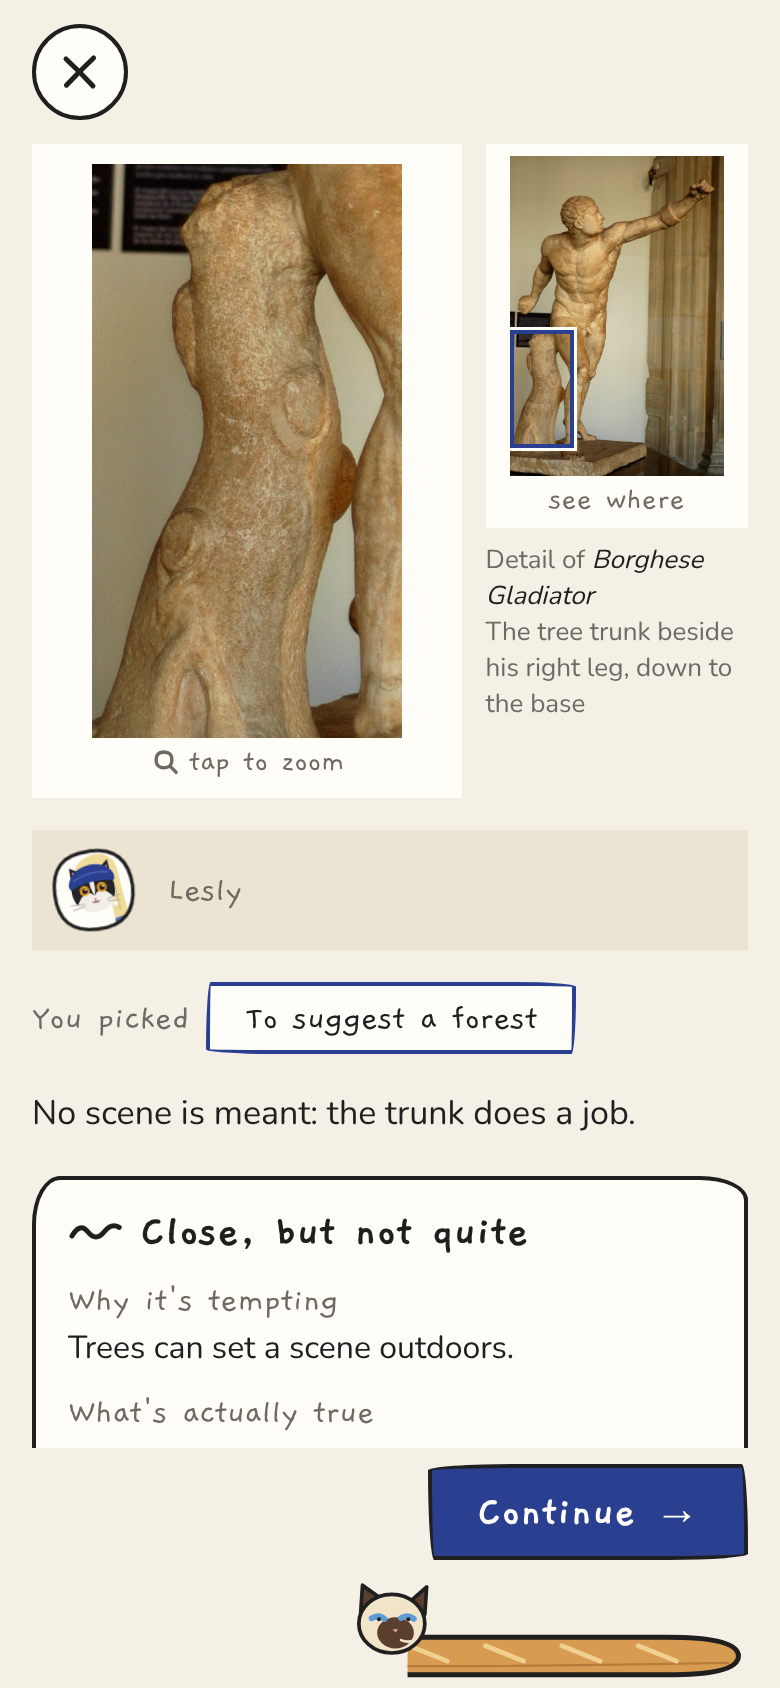
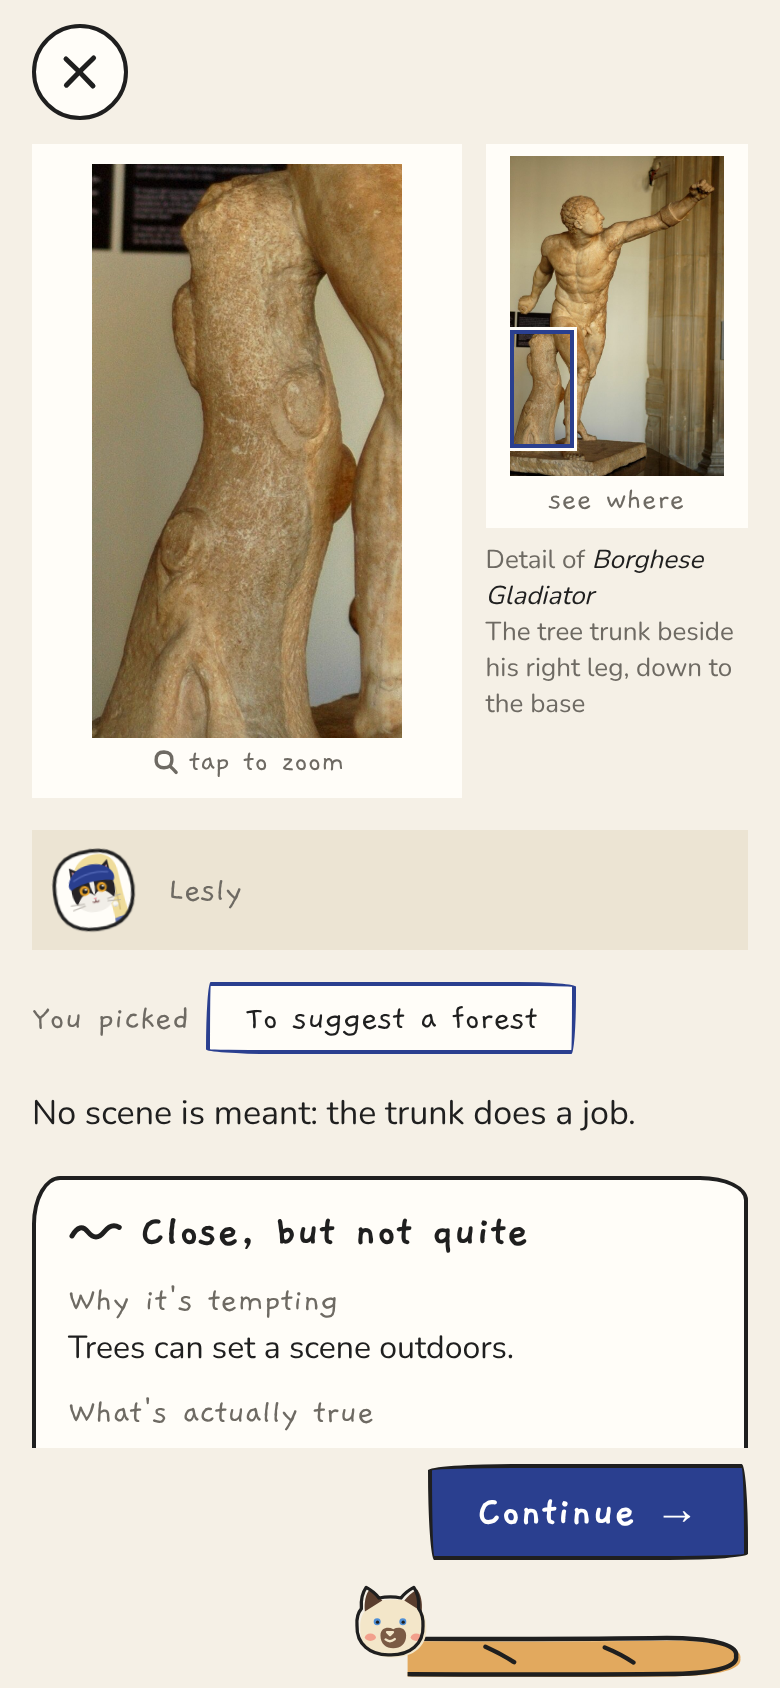
Redraw TT, Lulu and the baguette in a loose hand-drawn doodle style
Wobbly single-weight ink with round caps typed into the paths, chubby
big-head shapes, dot eyes and blush, flat crayon fills offset from the line.
PRODUCT.md notes the style. Screenshots refreshed.

Claude-Session: https://claude.ai/code/session_01PaAohou2zTKTEuzrV9m3xH

Changed region(s): [[0.4615, 0.9242, 0.9538, 1.0]]

diff --git a/src/doodles/cats.tsx b/src/doodles/cats.tsx
@@ -1,15 +1,18 @@
-// The two helper cats (PRODUCT.md "Visit countdown" and "Baguette progress"),
-// our own drawings, typed by hand like the rest of this folder: black ink,
-// one stroke weight, crayon fills. They are product helpers, never narrators
-// of an artwork, and they never say an art fact.
+// The two helper cats (PRODUCT.md "Visit countdown and baguette progress"):
+// TT, a grey-and-white American Shorthair kitten with a hint of tabby
+// stripes, and Lulu, a Siamese (cream body, dark-brown points, blue eyes).
+// Our own drawings, typed by hand: no AI images.
 //
-// - TTKitten: TT, a grey-and-white American Shorthair kitten (silver coat with
-//   classic tabby swirls, white muzzle and paws), paws raised to hold up the
-//   countdown sign that sits just above it.
-// - LuluChew: Lulu, the Siamese cat: her head (cream face, dark brown points, blue
-//   eyes) chewing the end of the baguette, for the level progress bar.
-// - LuluFull: Lulu sitting, belly round, eyes shut happily, for
-//   the level-cleared page.
+// Style (25 Oct 2026, the product owner: hand-drawn and natural, in the
+// manner of a tea-shop poster doodle): loose, slightly wobbly single-weight
+// ink lines with round caps, the wobble typed into the path points (no
+// filters); chubby round shapes, big heads and tiny bodies; dot eyes, a tiny
+// mouth, a little blush; flat crayon fills printed a touch off the line
+// (the translate(1.8 1.4) group), like print misregistration.
+//
+// - TTKitten: TT, arms up, holding the countdown sign that sits above him.
+// - LuluChew: Lulu's head, for the baguette progress bar.
+// - LuluFull: Lulu sitting, belly round and full, for the cleared pages.
 // - Baguette: the loaf the progress bar is made of.
 
 import type { CSSProperties } from "react";
@@ -19,141 +22,89 @@ type DoodleProps = { className?: string; style?: CSSProperties; title?: string }
 /** Named image when a title is given, decorative otherwise. */
 const a11y = (title?: string) => (title ? { role: "img", "aria-label": title } : { "aria-hidden": true as const });
 
-const INK = "var(--color-ink)";
-const W = 2.5;
-const line = { fill: "none", stroke: INK, strokeWidth: W, strokeLinecap: "round" as const, strokeLinejoin: "round" as const };
-const thin = (c: string, w = 1.4) => ({ fill: "none", stroke: c, strokeWidth: w, strokeLinecap: "round" as const });
+const INK_LINE = {
+  fill: "none",
+  stroke: "var(--color-ink)",
+  strokeWidth: 2.2,
+  strokeLinecap: "round" as const,
+  strokeLinejoin: "round" as const,
+};
 
-const GREY = "#c5c4c0";
-const TABBY = "#5d5d5f";
-const WHITE = "#f7f5ef";
-const PINK = "#eba3ab";
-const CREAM = "#f1e4c8";
-const POINT = "#5a3e2e";
-const BLUE = "#5f9bd6";
-const CRUST = "#d79b52";
-const CRUMB = "#f0cf8f";
-
-/** TT, the countdown kitten, paws up. The sign itself is HTML just above it. */
+/** TT, arms up to hold the sign (the sign itself is HTML just above). */
 export function TTKitten({ className, style, title }: DoodleProps) {
   return (
-    <svg viewBox="0 0 96 82" className={className} style={style} {...a11y(title)}>
-      {/* body, cut by the bottom edge */}
-      <ellipse cx="48" cy="80" rx="27" ry="13" {...line} fill={GREY} />
-      <path d="M40 72 Q48 78 56 72 L55 82 L41 82 Z" fill={WHITE} />
-      {/* arms raised to the sign */}
-      <path d="M33 66 Q24 40 26 9" fill="none" stroke={INK} strokeWidth="11" strokeLinecap="round" />
-      <path d="M63 66 Q72 40 70 9" fill="none" stroke={INK} strokeWidth="11" strokeLinecap="round" />
-      <path d="M33 66 Q24 40 26 9" fill="none" stroke={GREY} strokeWidth="6" strokeLinecap="round" />
-      <path d="M63 66 Q72 40 70 9" fill="none" stroke={GREY} strokeWidth="6" strokeLinecap="round" />
-      <path d="M25 40 l5 -1 M27 30 l5 -1 M71 40 l-5 -1 M69 30 l-5 -1" {...thin(TABBY, 1.6)} />
-      <circle cx="26" cy="8" r="5.5" {...line} fill={WHITE} />
-      <circle cx="70" cy="8" r="5.5" {...line} fill={WHITE} />
-      {/* ears */}
-      <path d="M27 38 L28.5 17 L42 28 Z" {...line} fill={GREY} />
-      <path d="M69 38 L67.5 17 L54 28 Z" {...line} fill={GREY} />
-      <path d="M30.5 32 L31 22.5 L37.5 28 Z M65.5 32 L65 22.5 L58.5 28 Z" fill={PINK} />
-      {/* head */}
-      <ellipse cx="48" cy="47" rx="25" ry="21" {...line} fill={GREY} />
-      {/* classic tabby: the forehead M and cheek swirls */}
-      <path d="M38.5 34 L41.5 28.5 L48 33.5 L54.5 28.5 L57.5 34" {...thin(TABBY, 1.8)} />
-      <path d="M48 27 L48 32" {...thin(TABBY, 1.6)} />
-      <path d="M24.5 46 Q30 43.5 33.5 47.5 M25 52 Q29.5 50.5 32 53" {...thin(TABBY, 1.6)} />
-      <path d="M71.5 46 Q66 43.5 62.5 47.5 M71 52 Q66.5 50.5 64 53" {...thin(TABBY, 1.6)} />
-      {/* white muzzle and chin */}
-      <path d="M36.5 55 C36.5 48.5 42 47 48 49.5 C54 47 59.5 48.5 59.5 55 C59.5 61.5 54 65 48 65 C42 65 36.5 61.5 36.5 55 Z" fill={WHITE} />
-      {/* crayon blush */}
-      <circle cx="31" cy="56" r="3.6" fill="var(--color-coral)" opacity="0.35" />
-      <circle cx="65" cy="56" r="3.6" fill="var(--color-coral)" opacity="0.35" />
-      {/* eyes */}
-      <circle cx="39" cy="45" r="4.4" fill="#d6a83a" />
-      <circle cx="57" cy="45" r="4.4" fill="#d6a83a" />
-      <circle cx="39.3" cy="45.4" r="2.5" fill={INK} />
-      <circle cx="57.3" cy="45.4" r="2.5" fill={INK} />
-      <circle cx="40.4" cy="44.2" r="0.9" fill="#fff" />
-      <circle cx="58.4" cy="44.2" r="0.9" fill="#fff" />
-      {/* nose and mouth */}
-      <path d="M45.6 51.4 L50.4 51.4 L48 54 Z" fill={PINK} />
-      <path d="M44.4 57 Q46.4 59 48 56.4 Q49.6 59 51.6 57" {...line} strokeWidth={1.6} />
-      {/* whiskers */}
-      <path d="M36 55 L26 53.5 M36 58 L27 59.5 M60 55 L70 53.5 M60 58 L69 59.5" {...thin("#8d8b86", 0.9)} />
+    <svg viewBox="0 0 100 100" className={className} style={style} {...a11y(title)}>
+      <g transform="translate(1.8 1.4)">
+      <path d="M33 80 C32 70 40 64 50 64 C60 64 68 70 67 80 C67 89 60 95 50 95 C40 95 33 89 33 80 Z" fill="#cbcbcf"/>
+      <path d="M43 82 C43 76 57 76 57 82 C57 89 43 89 43 82Z" fill="#fbfaf6"/>
+      <path d="M26 44 C25 31 36 22 50 22.5 C64 22 75 31 74 44 C75 57 64 66 50 66 C36 66.5 25 57 26 44 Z M30 32 C29 25 30 19 32.5 15 C37 17.5 40 20.5 42 23.5 Z M70 32 C71 25 70 19 67.5 15 C63 17.5 60 20.5 58 23.5 Z" fill="#cbcbcf"/>
+      <path d="M39.5 53 C39.5 48 45 47.5 50 49.6 C55 47.5 60.5 48 60.5 53 C60.5 58.5 55.6 61 50 61 C44.4 61 39.5 58.5 39.5 53Z" fill="#fbfaf6"/>
+      <ellipse cx="35" cy="53" rx="4" ry="2.7" fill="#f2a08c"/><ellipse cx="65" cy="53" rx="4" ry="2.7" fill="#f2a08c"/>
+      <circle cx="22" cy="10" r="5" fill="#fbfaf6"/><circle cx="78" cy="10" r="5" fill="#fbfaf6"/></g>
+      <path {...INK_LINE} d="M36 71 C28 62 22 40 21.6 15 M64 71 C72 62 78 40 78.4 15"/>
+      <path {...INK_LINE} d="M33 80 C32.4 70.6 39.6 64.2 50.2 64 C60.4 63.8 67.6 70.4 67 80.2 C67.4 89.2 60 95.2 50 95 C40.2 95.4 32.8 89 33 80 Z M45 95 L45.4 90 M55 95 L54.6 90"/>
+      <path {...INK_LINE} d="M26 44 C25.6 37.4 27.8 32.6 29.8 30.2 C29.2 24.6 30.2 19.4 32.6 15.2 C36.8 17.4 39.8 20.4 42.2 23.6 C44.6 22.8 47.2 22.4 50.2 22.4 C53.2 22.4 55.6 22.8 57.8 23.6 C60.2 20.4 63.2 17.4 67.4 15.2 C69.8 19.4 70.8 24.6 70.2 30.2 C72.4 32.8 74.4 37.6 74 44.2 C74.4 57.2 64 66.2 50 66 C36 66.4 25.6 57 26 44 Z"/>
+      <path {...INK_LINE} d="M45.2 28.4 L46 32.4 M50.2 26.8 L50.2 31.6 M55.2 28.4 L54.4 32.4 M30 42.6 L34 43.4 M70 42.6 L66 43.4"/>
+      <path {...INK_LINE} d="M17.6 10.6 C17 6.8 20 4.6 22.6 5 C25.6 5.4 27 8.6 25.6 11.6 C24.2 14.2 18.4 14.2 17.6 10.6Z M73.6 10.6 C73 6.8 76 4.6 78.6 5 C81.6 5.4 83 8.6 81.6 11.6 C80.2 14.2 74.4 14.2 73.6 10.6Z"/>
+      <circle cx="42" cy="45" r="2.3" fill="var(--color-ink)"/><circle cx="58" cy="45" r="2.3" fill="var(--color-ink)"/>
+      <path {...INK_LINE} d="M48.6 51 L51.6 51 L50.1 52.6 Z M47.2 54.8 Q48.7 56.6 50.1 54.6 Q51.6 56.6 53 54.8" strokeWidth="1.7"/>
     </svg>
   );
 }
 
-/** Lulu's head, chewing the baguette end at its right edge. */
+/** Lulu's head, chewing the baguette end. */
 export function LuluChew({ className, style, title }: DoodleProps) {
   return (
     <svg viewBox="0 0 48 44" className={className} style={style} {...a11y(title)}>
-      <path d="M8 18 L9 3 L20 11 Z" {...line} fill={POINT} strokeWidth={2} />
-      <path d="M36 11 L44 4 L43 19 Z" {...line} fill={POINT} strokeWidth={2} />
-      <ellipse cx="25" cy="24" rx="18" ry="16" {...line} fill={CREAM} strokeWidth={2} />
-      {/* the dark mask over nose and mouth */}
-      <ellipse cx="27" cy="29" rx="10" ry="8.5" fill={POINT} />
-      <path d="M14 21 Q18 18.6 21 21.4" {...thin(BLUE, 3.2)} />
-      <path d="M30 21 Q33.5 18.6 37 21.4" {...thin(BLUE, 3.2)} />
-      <circle cx="18" cy="21.6" r="1.1" fill={INK} />
-      <circle cx="34" cy="21.6" r="1.1" fill={INK} />
-      <path d="M25.5 27 L28.5 27 L27 28.8 Z" fill={PINK} />
-      {/* cheeks puffed round the bite */}
-      <path d="M30 33 Q35 35 38 32" {...thin(CREAM, 1.4)} />
+      <g transform="translate(1.8 1.4)">
+      <path d="M6 25 C5.5 15 13 9 24 9.5 C35 9 42.5 15 42 25 C42.5 35 35 41 24 41 C13 41.5 5.5 35 6 25Z" fill="#f3e6c9"/>
+      <path d="M8.5 16 C8 11 9 6.5 11 4 C14 5.6 16.4 8 18 10Z M39.5 16 C40 11 39 6.5 37 4 C34 5.6 31.6 8 30 10Z" fill="#5a3e2e"/>
+      <path d="M17 29 C17 25 21 24 24 25.6 C27 24 31 25 31 29 C31 33.5 28 36 24 36 C20 36 17 33.5 17 29Z" fill="#7a5a44"/>
+      <ellipse cx="11.5" cy="30" rx="3" ry="2" fill="#f2a08c"/><ellipse cx="36.5" cy="30" rx="3" ry="2" fill="#f2a08c"/></g>
+      <path {...INK_LINE} strokeWidth="1.8" d="M6 25 C5.6 20 7.2 17.2 8.4 15.8 C8 11 9 7 11 4.2 C14 5.8 16.4 7.8 18 10 C20 9.6 22 9.4 24.2 9.4 C26.2 9.4 28.2 9.6 30 10 C31.6 7.8 34 5.8 37 4.2 C39 7 40 11 39.6 15.8 C40.8 17.4 42.2 20 42 25.2 C42.4 35 35 41.2 24 41 C13 41.4 5.6 35 6 25Z"/>
+      <circle cx="17" cy="23" r="1.9" fill="#4f8fd6"/><circle cx="31" cy="23" r="1.9" fill="#4f8fd6"/>
+      <circle cx="17.2" cy="23.2" r="0.9" fill="var(--color-ink)"/><circle cx="31.2" cy="23.2" r="0.9" fill="var(--color-ink)"/>
+      <path {...INK_LINE} stroke="#f3e6c9" strokeWidth="1.3" d="M22.4 28.6 L25.6 28.6 L24 30.2Z M21.6 32.6 Q24 34.6 26.6 32.4"/>
     </svg>
   );
 }
 
-/** Lulu sitting, belly round and full, eyes shut with pleasure. */
+/** Lulu sitting, belly round and full, eyes shut happily. */
 export function LuluFull({ className, style, title }: DoodleProps) {
   return (
-    <svg viewBox="0 0 120 112" className={className} style={style} {...a11y(title)}>
-      {/* tail curling round the side */}
-      <path d="M92 96 Q114 92 108 70 Q105 60 112 54" fill="none" stroke={INK} strokeWidth="10" strokeLinecap="round" />
-      <path d="M92 96 Q114 92 108 70 Q105 60 112 54" fill="none" stroke={POINT} strokeWidth="5.5" strokeLinecap="round" />
-      {/* the round body and the fuller belly */}
-      <ellipse cx="60" cy="78" rx="36" ry="30" {...line} fill={CREAM} />
-      <ellipse cx="60" cy="83" rx="22" ry="19" fill="#f8efdc" />
-      <path d="M50 76 Q60 72 70 76" {...thin("#e2cfa8", 1.4)} />
-      {/* front paws */}
-      <ellipse cx="46" cy="106" rx="8" ry="5" {...line} fill={POINT} strokeWidth={2} />
-      <ellipse cx="74" cy="106" rx="8" ry="5" {...line} fill={POINT} strokeWidth={2} />
-      {/* ears */}
-      <path d="M36 32 L37 8 L52 20 Z" {...line} fill={POINT} />
-      <path d="M84 32 L83 8 L68 20 Z" {...line} fill={POINT} />
-      {/* head */}
-      <ellipse cx="60" cy="35" rx="25" ry="21" {...line} fill={CREAM} />
-      <ellipse cx="60" cy="42" rx="12" ry="10" fill={POINT} />
-      {/* happy shut eyes, blue lashes of colour under them */}
-      <path d="M43 32 Q48 27.5 53 32" {...line} strokeWidth={2.2} />
-      <path d="M67 32 Q72 27.5 77 32" {...line} strokeWidth={2.2} />
-      <circle cx="42" cy="40" r="3.4" fill="var(--color-coral)" opacity="0.35" />
-      <circle cx="78" cy="40" r="3.4" fill="var(--color-coral)" opacity="0.35" />
-      <path d="M57.8 38.6 L62.2 38.6 L60 41 Z" fill={PINK} />
-      <path d="M56 44 Q58 46.4 60 43.8 Q62 46.4 64 44" fill="none" stroke={CREAM} strokeWidth="1.5" strokeLinecap="round" />
-      <path d="M48 42 L38 40.5 M48 45 L39 46.5 M72 42 L82 40.5 M72 45 L81 46.5" {...thin("#9a8f80", 0.9)} />
-      {/* crumbs */}
-      <circle cx="30" cy="100" r="2" {...line} fill={CRUMB} strokeWidth={1.2} />
-      <circle cx="22" cy="104" r="1.5" {...line} fill={CRUMB} strokeWidth={1} />
-      <circle cx="88" cy="106" r="1.8" {...line} fill={CRUMB} strokeWidth={1.1} />
+    <svg viewBox="0 0 100 100" className={className} style={style} {...a11y(title)}>
+      {/* body first, then the head over it */}
+      <g transform="translate(1.8 1.4)">
+      <path d="M80 82 C93 82 95 70 88 62" fill="none" stroke="#5a3e2e" strokeWidth="6" strokeLinecap="round"/>
+      <path d="M22 74 C21 58 34 50 50 50 C66 50 79 58 78 74 C79 88 66 96 50 96 C34 96.5 21 88 22 74 Z" fill="#f3e6c9"/>
+      <path d="M33 77 C33 65 67 65 67 77 C67 88 33 88 33 77Z" fill="#fbf4e3"/>
+      <ellipse cx="38" cy="94" rx="7" ry="3.6" fill="#5a3e2e"/><ellipse cx="62" cy="94" rx="7" ry="3.6" fill="#5a3e2e"/>
+      </g>
+      <path {...INK_LINE} d="M79.6 82.4 C92.4 82.4 95.2 71 88.4 62.2"/>
+      <path {...INK_LINE} d="M22 74 C21.6 60 33.6 50.4 50.2 50.2 C66.4 50 78.4 59.4 78 74.2 C78.4 88.4 66.2 96.2 50 96 C33.8 96.4 21.6 88.2 22 74 Z"/>
+      <path {...INK_LINE} d="M44 70 Q50 73 56 70" strokeWidth="1.6"/>
+      <path {...INK_LINE} d="M31.6 94.4 C31 91 35 89.6 38.4 90 C42.4 90.4 44.8 92.6 44.2 95 M56 95 C55.4 92.6 57.8 90.4 61.8 90 C65.2 89.6 69 91 68.4 94.4"/>
+      <g transform="translate(1.8 1.4)">
+      <path d="M24 34 C23 20 35 11 50 11.5 C65 11 77 20 76 34 C77 48 65 56 50 56 C35 56.5 23 48 24 34 Z" fill="#f3e6c9"/>
+      <path d="M27 24 C26 16 27.5 9 30.5 5 C35 7.5 38.5 11 41 14 Z M73 24 C74 16 72.5 9 69.5 5 C65 7.5 61.5 11 59 14 Z" fill="#5a3e2e"/>
+      <path d="M41 42 C41 37 46 35.5 50 37.5 C54 35.5 59 37 59 42 C59 48 55 51 50 51 C45 51 41 48 41 42Z" fill="#7a5a44"/>
+      <ellipse cx="31" cy="42" rx="4.4" ry="2.8" fill="#f2a08c"/><ellipse cx="69" cy="42" rx="4.4" ry="2.8" fill="#f2a08c"/>
+      </g>
+      <path {...INK_LINE} d="M24 34 C23.6 27.4 25.8 22.6 27.4 20.4 C26.6 14.8 27.8 9.4 30.6 5.2 C35 7.6 38.6 10.8 41.2 14 C44 12.4 47 11.6 50.2 11.6 C53.4 11.6 56.2 12.4 58.8 14 C61.4 10.8 65 7.6 69.4 5.2 C72.2 9.4 73.4 14.8 72.6 20.4 C74.4 22.8 76.4 27.6 76 34.2 C76.4 48.2 65 56.2 50 56 C35 56.4 23.6 48 24 34 Z"/>
+      <path {...INK_LINE} d="M36 31 Q40 27 44 31 M56 31 Q60 27 64 31" strokeWidth="2"/>
+      <path {...INK_LINE} d="M48.6 39.6 L51.6 39.6 L50.1 41.2 Z M47.4 44 Q48.8 45.8 50.1 43.8 Q51.4 45.8 52.8 44" strokeWidth="1.6" stroke="#f3e6c9"/>
+      <circle cx="14" cy="92" r="1.6" fill="#e9c27a"/><circle cx="19" cy="95" r="1.1" fill="#e9c27a"/><circle cx="87" cy="94" r="1.4" fill="#e9c27a"/>
     </svg>
   );
 }
 
-/** The baguette, stretched to the bar's width (the outline keeps its weight). */
-export function Baguette({ className, style }: DoodleProps) {
-  const ns = { vectorEffect: "non-scaling-stroke" as const };
+/** The baguette, stretched to the bar's width (the line keeps its weight). */
+export function Baguette({ className, style, title }: DoodleProps) {
   return (
-    <svg viewBox="0 0 300 28" preserveAspectRatio="none" className={className} style={style} aria-hidden="true">
-      <path
-        d="M4 14 C4 6 16 3 34 3 L266 3 C284 3 296 6 296 14 C296 22 284 25 266 25 L34 25 C16 25 4 22 4 14 Z"
-        fill={CRUST}
-        stroke={INK}
-        strokeWidth={W}
-        strokeLinejoin="round"
-        {...ns}
-      />
-      <path d="M8 18 Q150 22 292 18" fill="none" stroke="#b87c3a" strokeWidth={1.2} {...ns} />
-      {[30, 62, 94, 126, 158, 190, 222, 254].map((x) => (
-        <path key={x} d={`M${x} 8 L${x + 16} 17`} fill="none" stroke={CRUMB} strokeWidth={2.4} strokeLinecap="round" {...ns} />
-      ))}
+    <svg viewBox="0 0 300 28" preserveAspectRatio="none" className={className} style={style} {...a11y(title)}>
+      <g transform="translate(1.8 1.4)"><path d="M5 15 C4 7 15 4 34 4.5 C110 3 190 5 266 3.5 C284 3.6 296 7 295 14 C296 21 284 24.5 266 24.5 C190 25.5 110 23.5 34 25 C15 24.6 4 22 5 15Z" fill="#e2a95e"/></g>
+      <path {...INK_LINE} vectorEffect="non-scaling-stroke" d="M5 15 C4 7 15 4 34 4.5 C110 3 190 5 266 3.5 C284 3.6 296 7 295 14 C296 21 284 24.5 266 24.5 C190 25.5 110 23.5 34 25 C15 24.6 4 22 5 15Z"/>
+      <path {...INK_LINE} vectorEffect="non-scaling-stroke" d="M40 9 Q47 13 52 18 M90 8.5 Q97 13 102 17.5 M140 9 Q147 13.4 152 18 M190 8.6 Q197 13 202 17.6 M240 9 Q247 13 252 17.8"/>
     </svg>
   );
 }

diff --git a/src/components/VisitCountdown.tsx b/src/components/VisitCountdown.tsx
@@ -55,7 +55,7 @@ export default function VisitCountdown() {
       >
         {sign}
       </p>
-      <TTKitten title="TT the kitten holds up the countdown sign" className="relative z-20 -mt-4 h-auto w-[104px]" />
+      <TTKitten title="TT the kitten holds up the countdown sign" className="relative z-20 -mt-3 h-auto w-[112px]" />
       <p className="mt-1 max-w-[300px] text-center font-hand text-xl leading-snug">
         <span className="sr-only">TT says: </span>
         {ttLine(days === null ? "none" : passed ? "passed" : days === 0 ? "today" : "days", days ?? 0)}

diff --git a/PRODUCT.md b/PRODUCT.md
@@ -326,7 +326,7 @@ Each work keeps one close-up round, in the format above. In a module, **a work's
 
 ### Visit countdown and baguette progress (helper cats)
 
-Added 25 Oct 2026 (product owner): a daily level needs a reason to come back, and a level needs a visible sense of how far along you are. Two helper cats, **TT** (the kitten) and **Lulu** (the Siamese), named by the product owner. Their Chinese names, 茶茶 (TT) and 露露 (Lulu), are reserved for a future Chinese version; the English product uses TT and Lulu only. Both are our own hand-coded SVG doodles in the house ink-and-crayon style (`src/doodles/cats.tsx`). They are product helpers, not narrators: they never speak an art fact, so nothing they say needs a source or can leak an answer.
+Added 25 Oct 2026 (product owner): a daily level needs a reason to come back, and a level needs a visible sense of how far along you are. Two helper cats, **TT** (the kitten) and **Lulu** (the Siamese), named by the product owner. Their Chinese names, 茶茶 (TT) and 露露 (Lulu), are reserved for a future Chinese version; the English product uses TT and Lulu only. Both are drawn in a loose, hand-drawn poster-doodle style (product owner, 25 Oct 2026: cuter and more natural): slightly wobbly single-weight ink with round caps, chubby round shapes with big heads and tiny bodies, dot eyes, a tiny mouth and a little blush, flat crayon fills printed a touch off the line. Both are our own hand-coded SVG doodles in the house ink-and-crayon style (`src/doodles/cats.tsx`). They are product helpers, not narrators: they never speak an art fact, so nothing they say needs a source or can leak an answer.
 
 - **Visit countdown (cover).** Under the cover copy, TT, a grey-and-white American Shorthair kitten, holds up a sign. With no day set, the sign asks "When's your Louvre day?" and a date picker that accepts only future dates (tomorrow or later) sits below; "Set my day" saves it. Then the sign reads "N days to the Louvre" ("1 day" singular), with the date and a "Change date" link that reopens the picker (with Cancel). On the day: "Louvre day is today!". Once the day has passed: "Hope the Louvre was lovely!" and a gentle line, "That visit day has passed. Planning another trip? Pick your next day.", with the picker. Under the sign TT says one short, encouraging line for the state (no day, counting down, today, passed), from a small fixed pool per state with no art facts (`src/lib/tt-lines.ts`); while counting down the line turns over with the day count. Days are counted in the player's own time zone. Stored as a plain date in one new localStorage key, `louvre-before-you-go:visit:v1`; losing it only asks for the day again. It does not touch progress.
 - **Baguette progress (levels and close-up rounds).** The only progress indicator, kept low-key: a rough sense of how far along you are that never competes with the content. There is no segment bar and no "Question n / N" text; the baguette carries an accessible progress label ("n of N questions answered"). Pinned to the bottom edge of every level and close-up screen, a long baguette with Lulu, a Siamese cat (cream coat, dark brown points, blue eyes), chewing its left end. It follows the answered count: each answered question eats one equal share, the cat moves along and the eaten part is gone, so a resumed level shows the same amount eaten. The cat gives one small chomp when a question is answered on that screen (none under reduced motion). The Continue button sits just above it. In a close-up round it counts the round's questions the same way.
